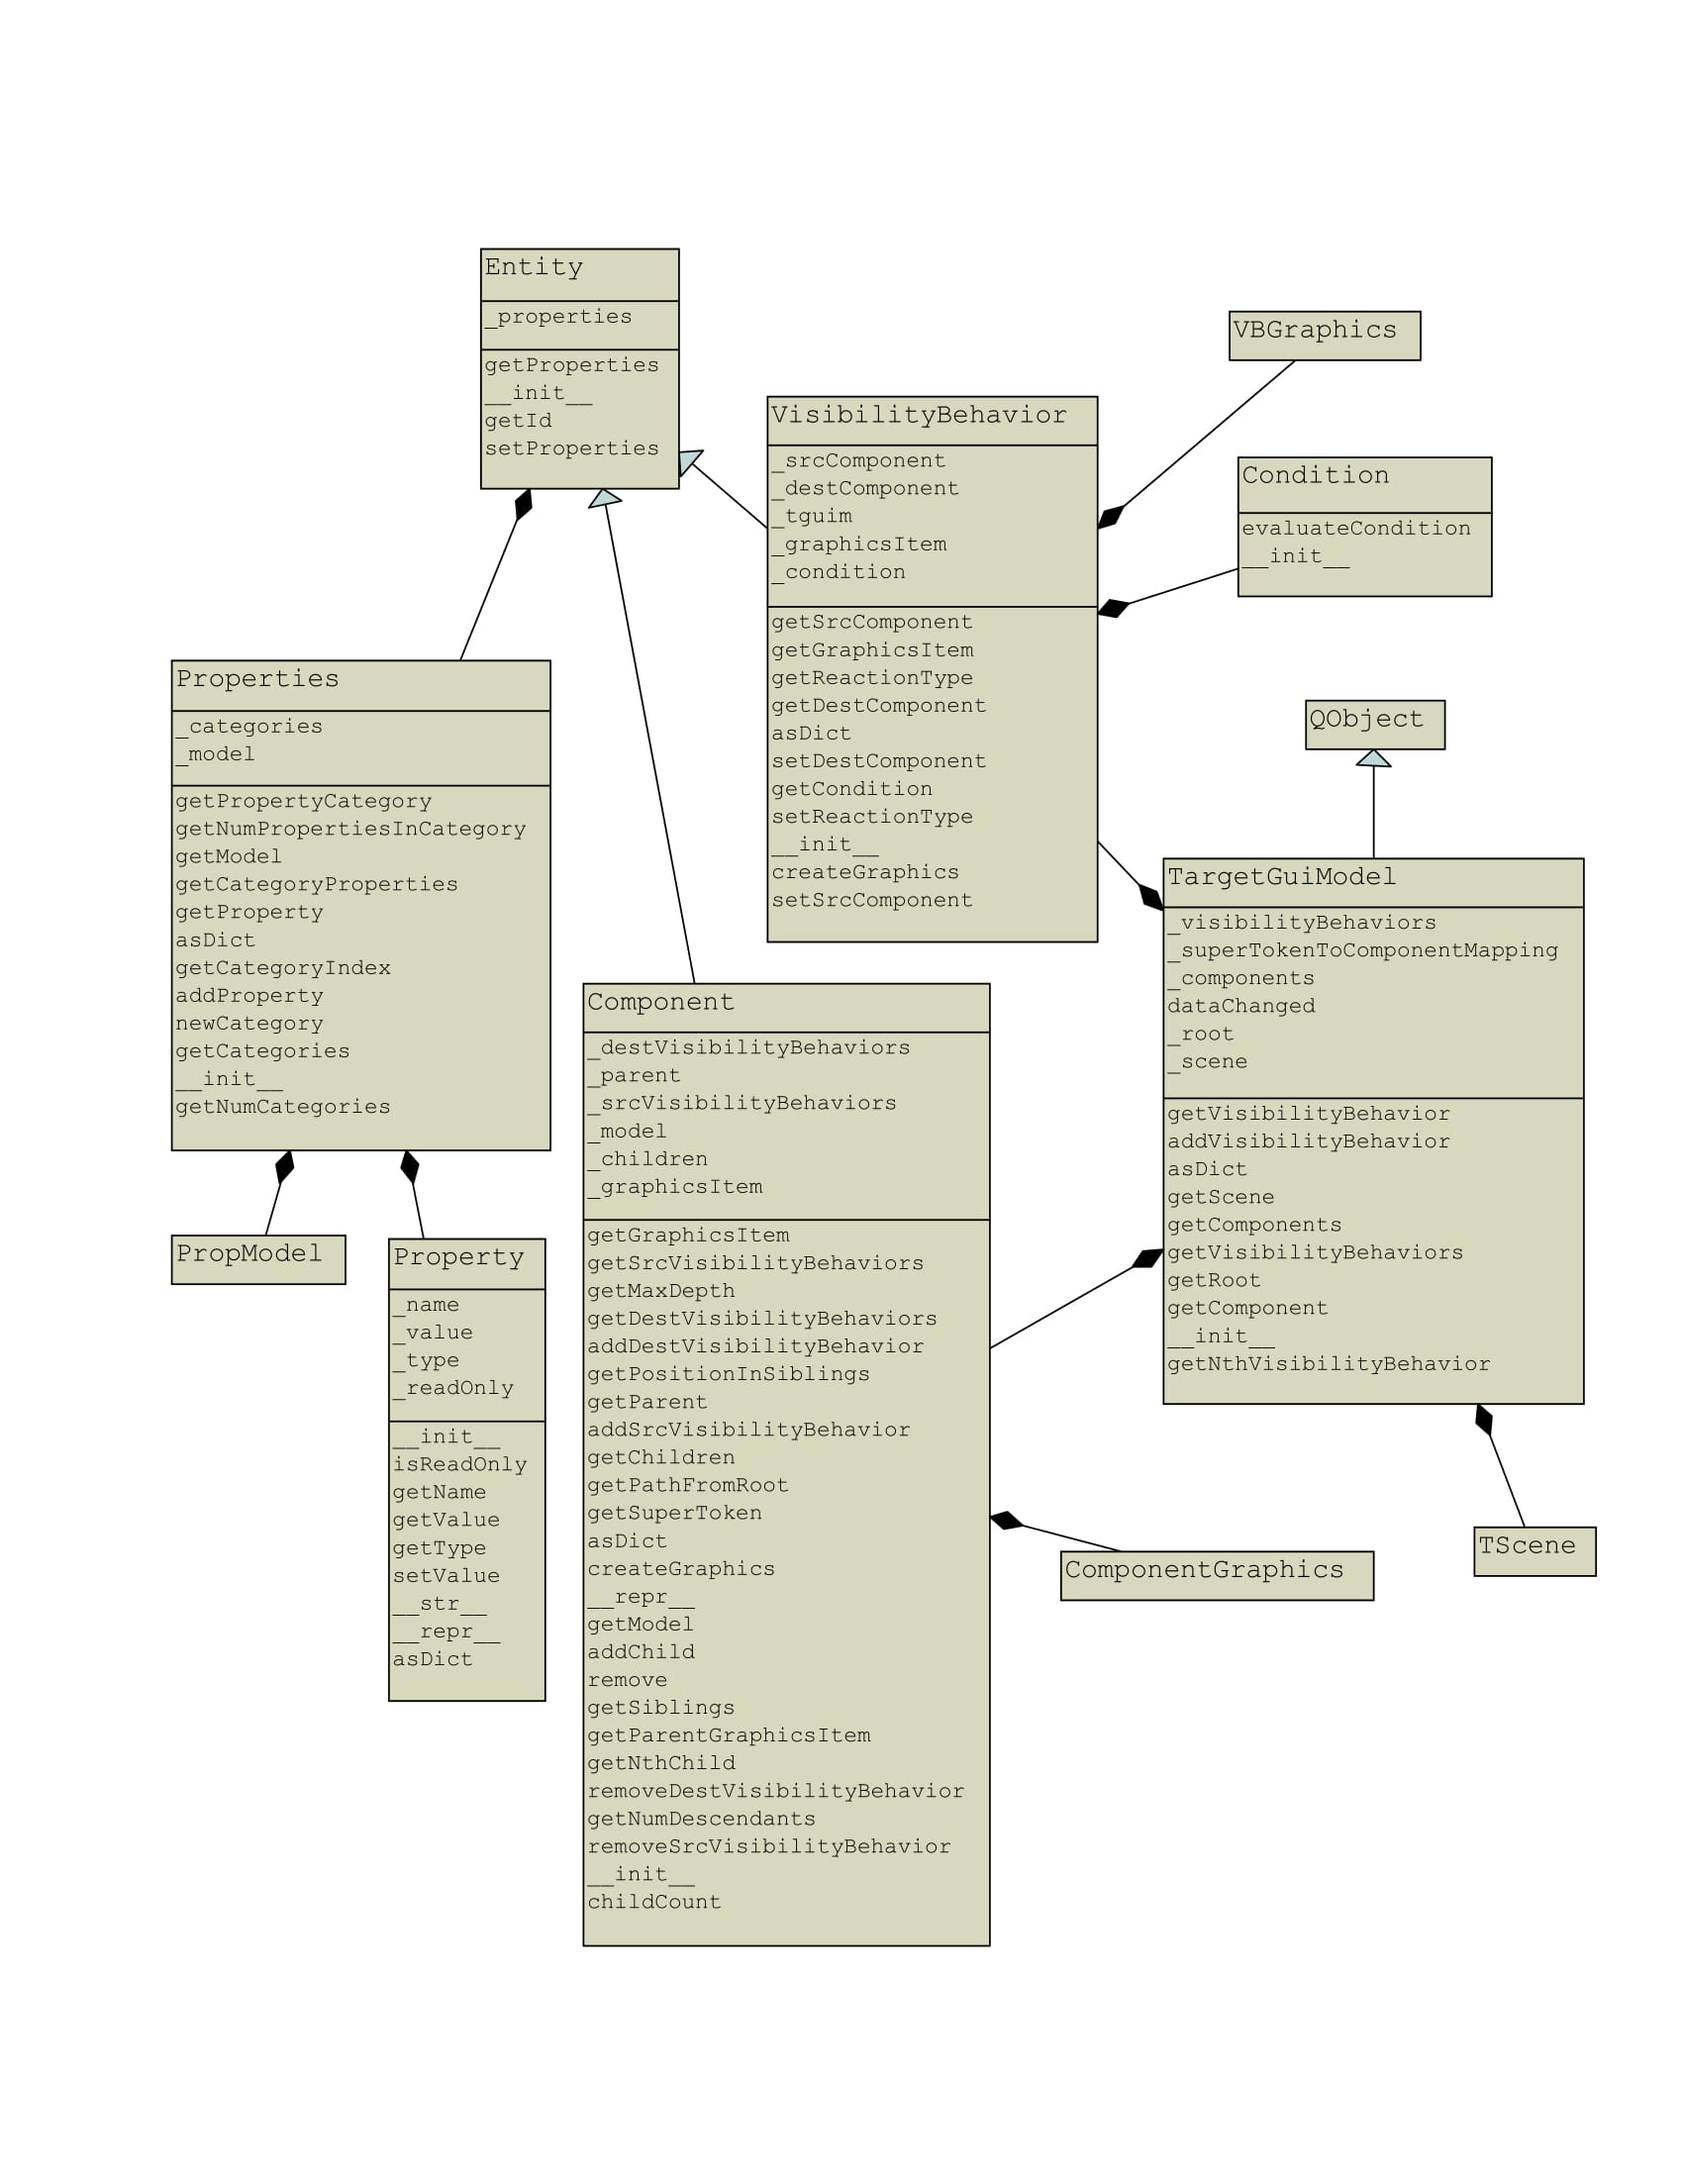
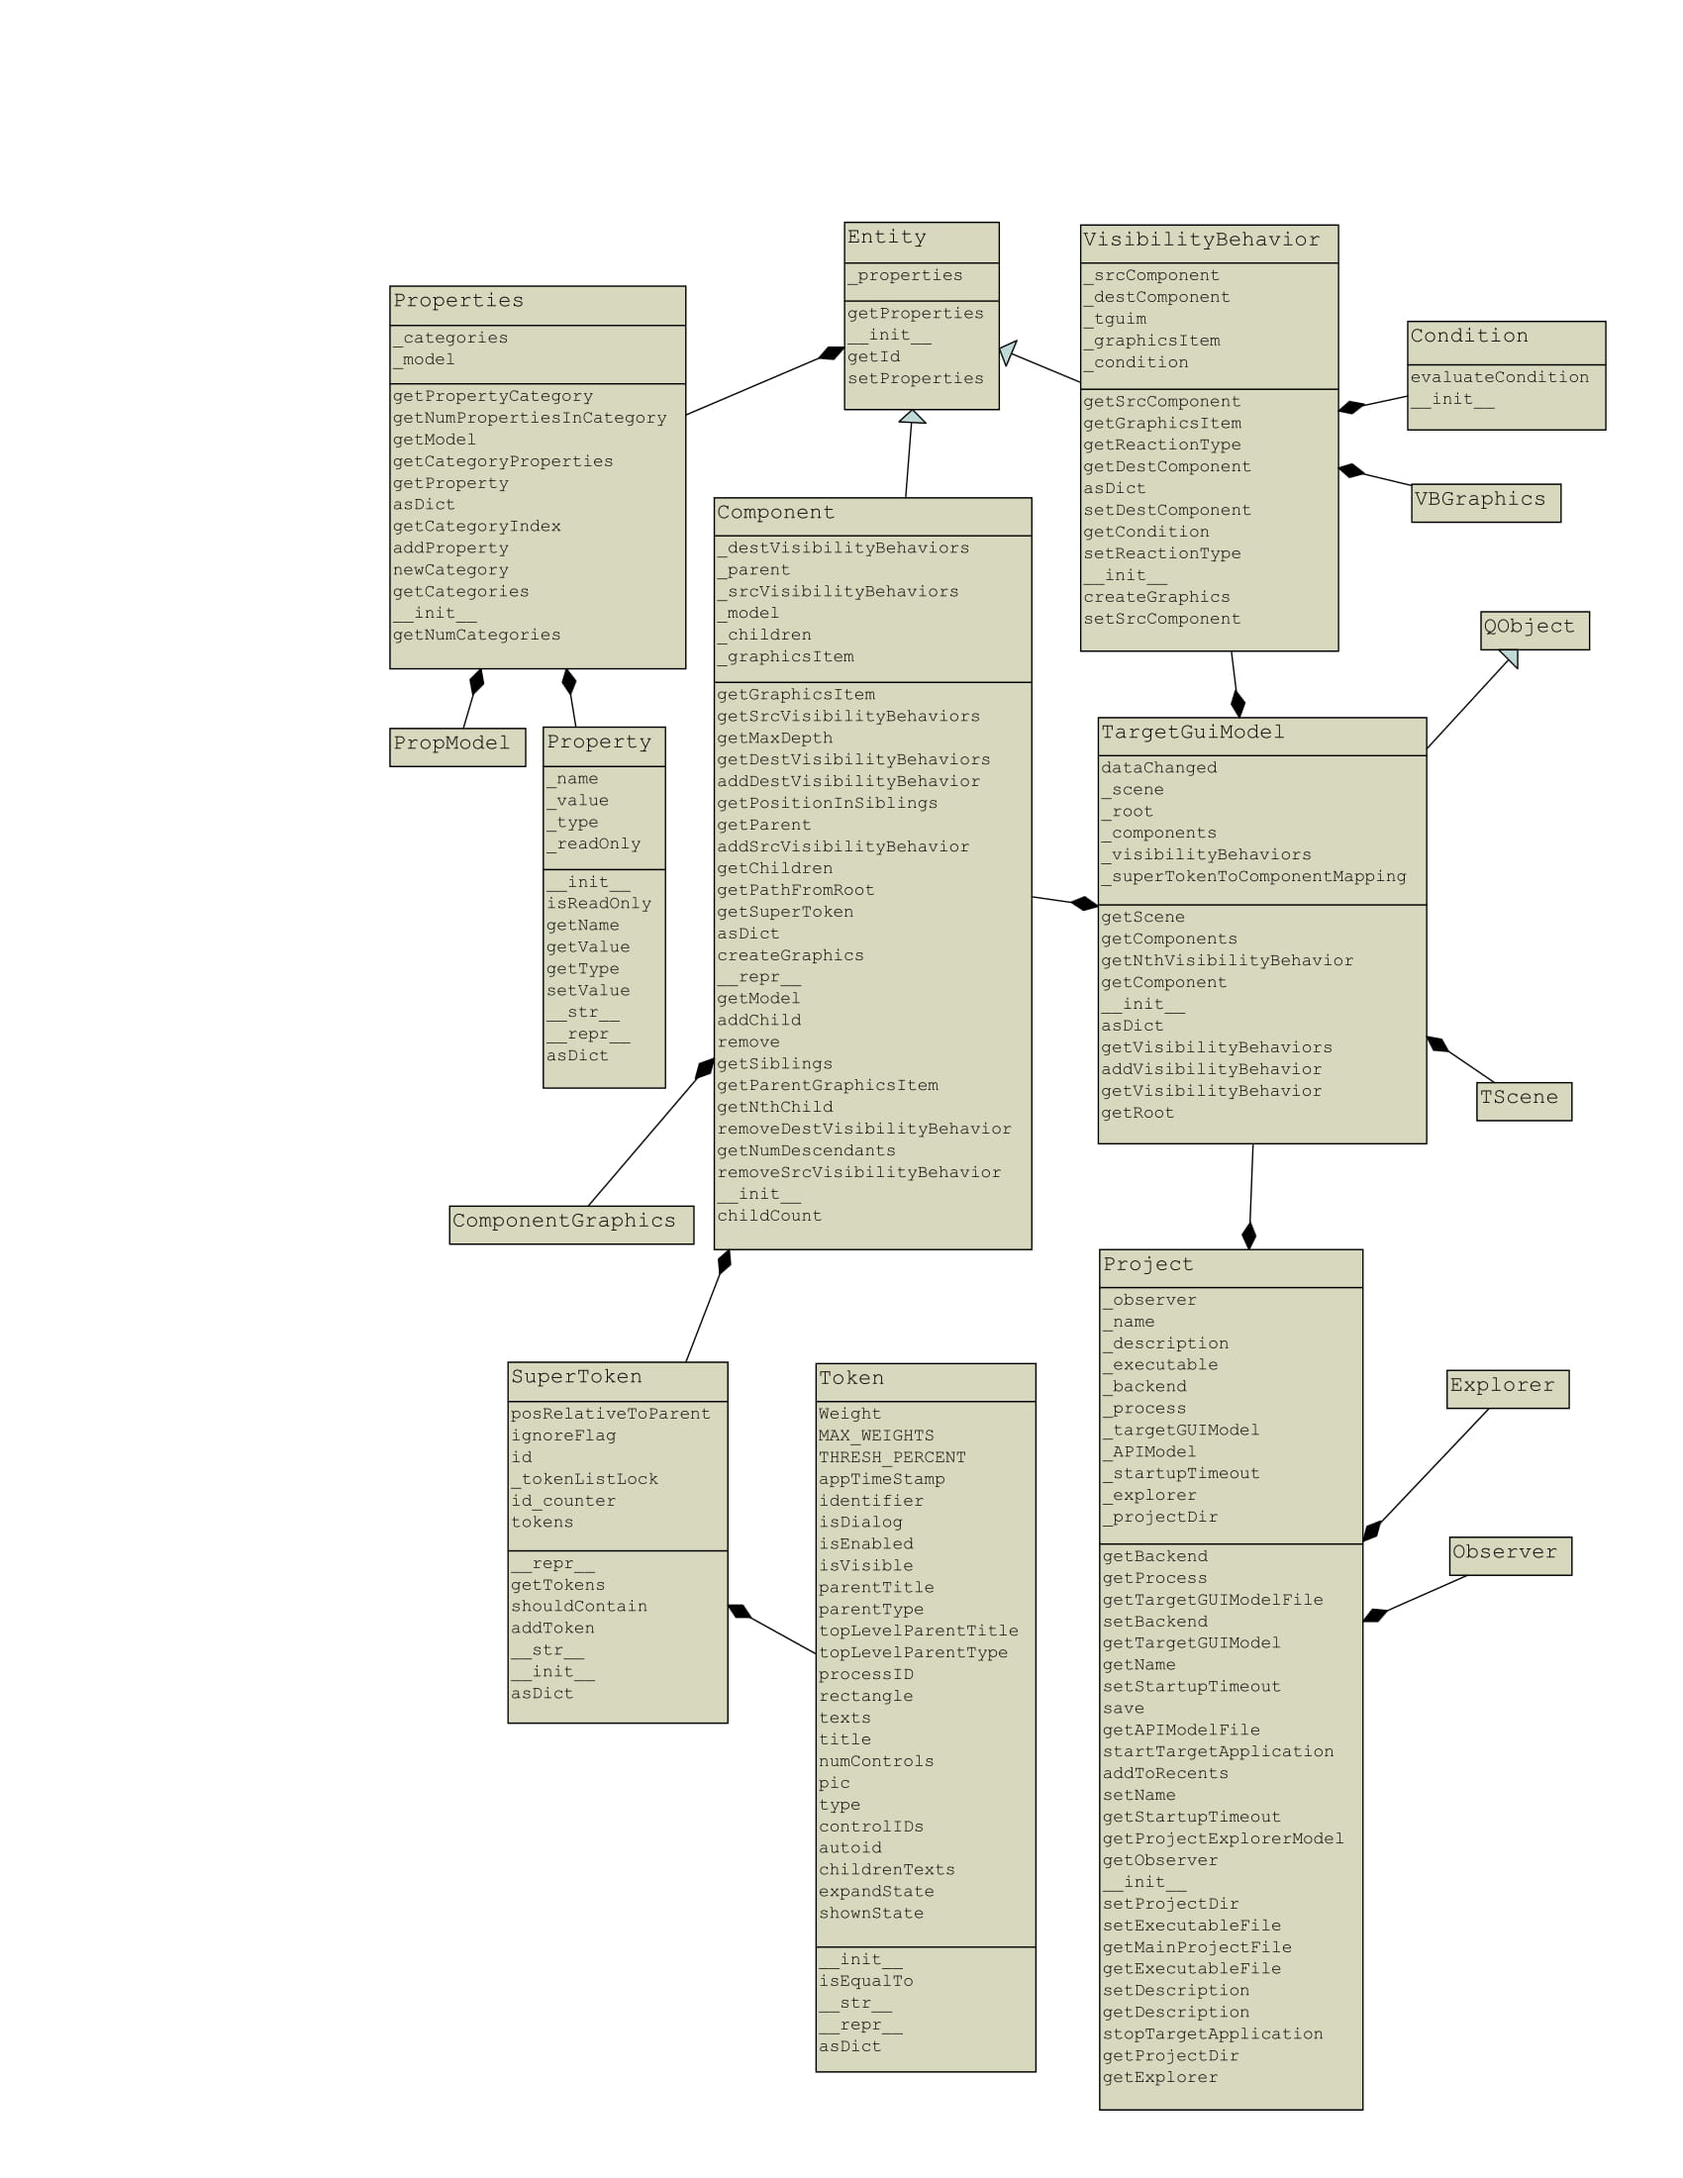
Added descriptions for SuperTokens and Tokens, and added them to the Class diagram

diff --git a/docs/source/docs/SDD/DataStructures/DataStructures.rst b/docs/source/docs/SDD/DataStructures/DataStructures.rst
@@ -107,6 +107,32 @@ Property
 The Property class defines an individual property of an Entity.  A Property consists of a name, a
 value, and a type.  Properties can optionally be made read only.
 
+==========
+SuperToken
+==========
+
+The SuperToken class contains all the identifying information associated with a particular target GUI
+component. Every Component object has one SuperToken. The state of a target GUI component may change
+over time, and so information about all observed states of the component are stored in its associated
+SuperToken. The information of any one observed state is captured in a Token (see the Token class),
+and so a SuperToken is essentially an aggregation of Tokens.
+
+SuperTokens are created by the Observer and passed to the TargetGuiModel, which will create a Component
+object based on the new SuperToken.  The SuperToken acts as an identifier for a Component in the
+TargetGuiModel so that the Component can be re-associated with the actual component in the target GUI
+later.
+
+=====
+Token
+=====
+
+The Token class contains the identifying information associated with an individual target GUI component
+in a particular state. One or more Tokens will belong to an individual SuperToken. Some of the pieces of
+identifying information, which are stored as data members in the Token class, are assigned weights
+determining the relative importance of that piece of information in reidentifying the component in the
+target GUI. The Token class contains methods for deciding whether an observed component matches
+(or matches closely enough) a Component in the TargetGuiModel.
+
 .. todo::
     Link to figure below somewhere
 
